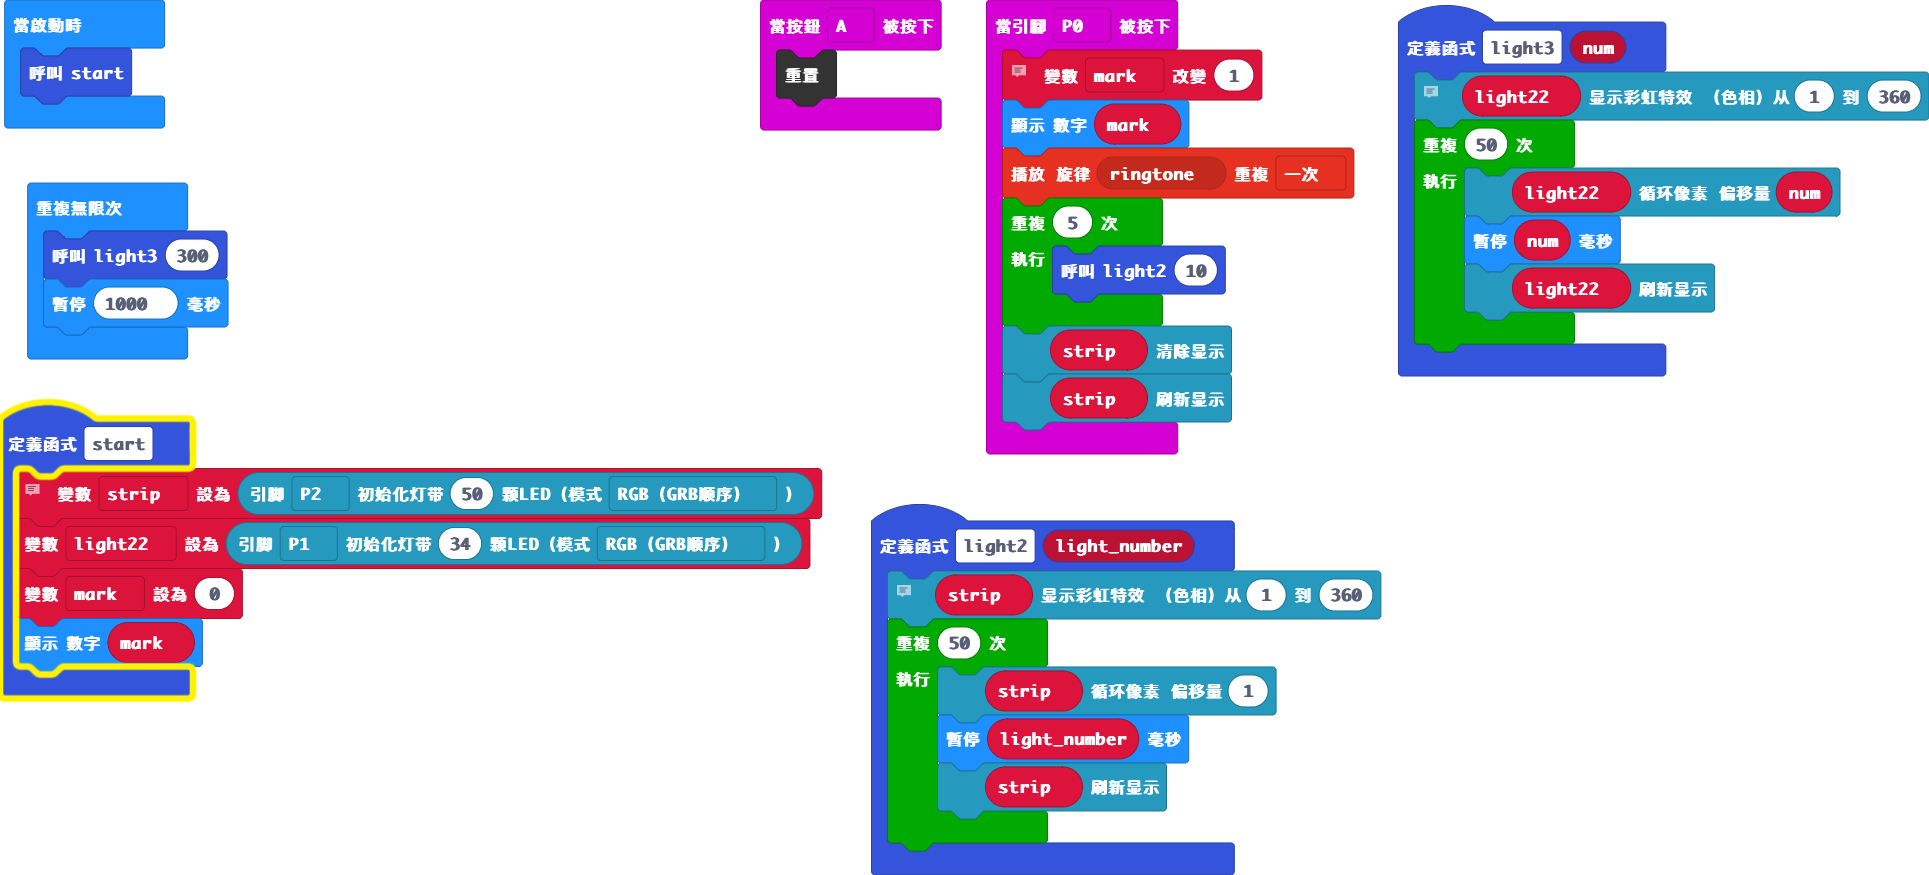
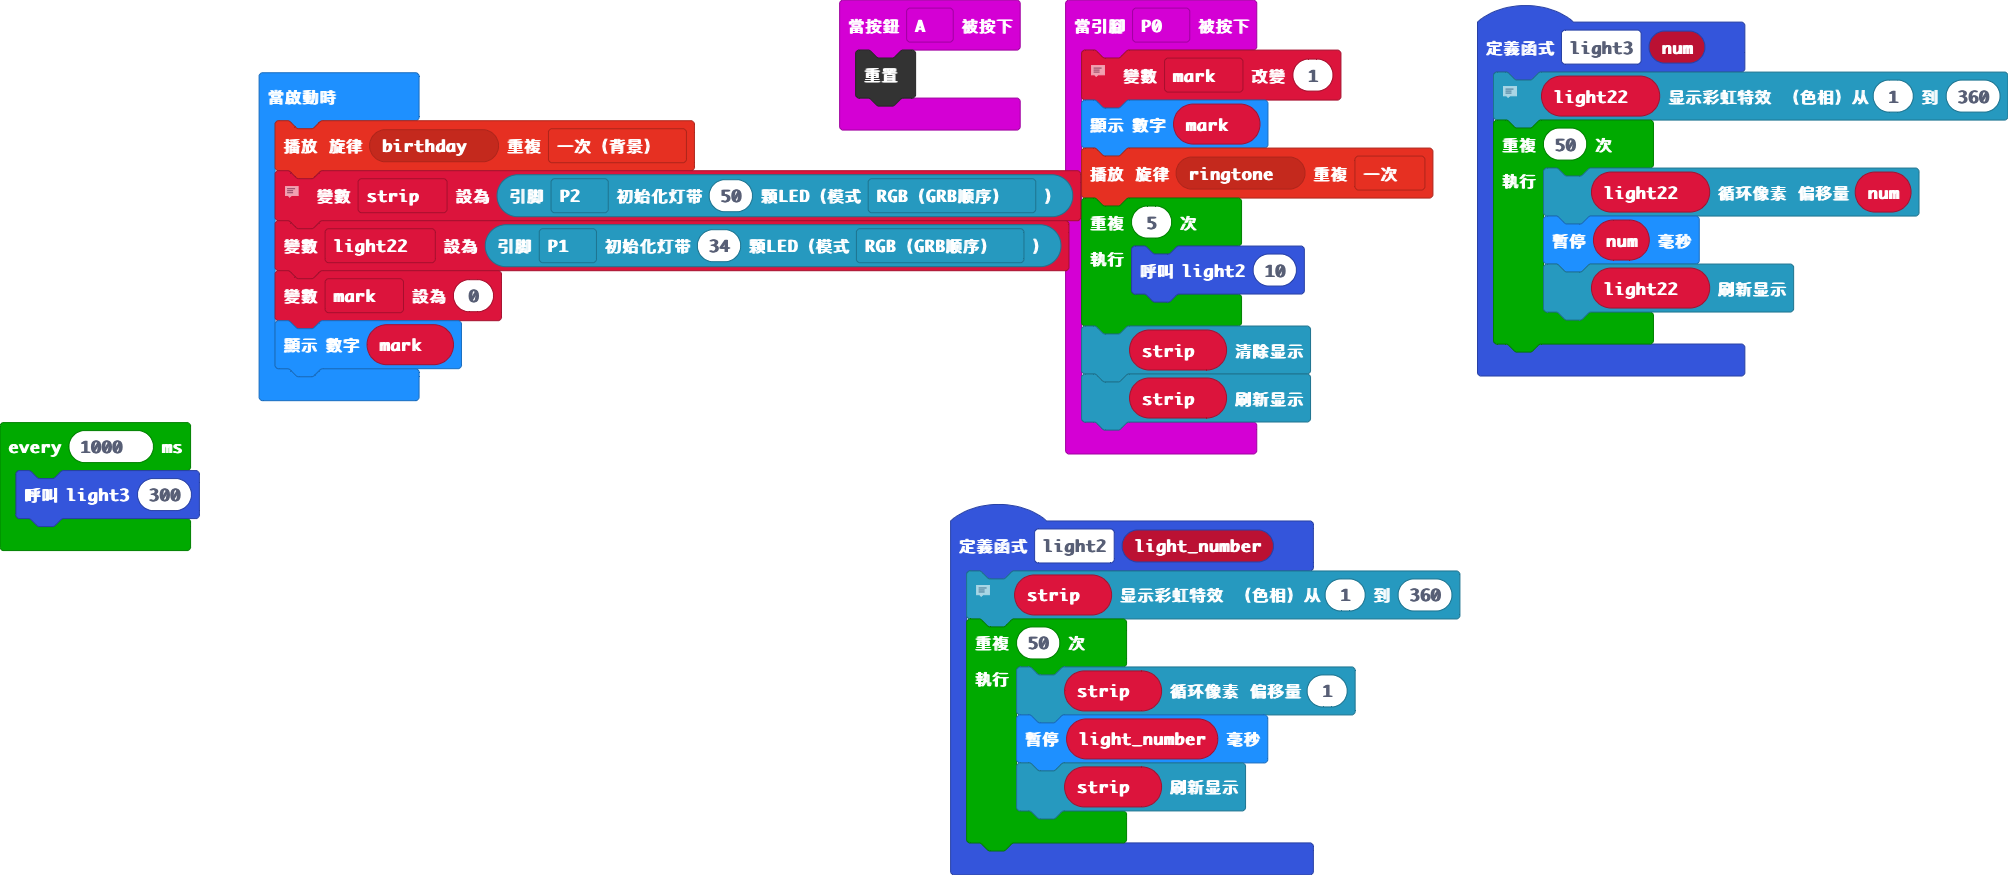
更新 main.blocks, main.ts

diff --git a/main.ts b/main.ts
@@ -21,13 +21,6 @@ function light3 (num: number) {
         light22.show()
     }
 }
-function start () {
-    // start
-    strip = neopixel.create(DigitalPin.P2, 50, NeoPixelMode.RGB)
-    light22 = neopixel.create(DigitalPin.P1, 34, NeoPixelMode.RGB)
-    mark = 0
-    basic.showNumber(mark)
-}
 function light2 (light_number: number) {
     // light
     strip.showRainbow(1, 360)
@@ -37,11 +30,15 @@ function light2 (light_number: number) {
         strip.show()
     }
 }
+let mark = 0
 let light22: neopixel.Strip = null
 let strip: neopixel.Strip = null
-let mark = 0
-start()
-basic.forever(function () {
+music.startMelody(music.builtInMelody(Melodies.Birthday), MelodyOptions.OnceInBackground)
+// start
+strip = neopixel.create(DigitalPin.P2, 50, NeoPixelMode.RGB)
+light22 = neopixel.create(DigitalPin.P1, 34, NeoPixelMode.RGB)
+mark = 0
+basic.showNumber(mark)
+loops.everyInterval(1000, function () {
     light3(300)
-    basic.pause(1000)
 })
